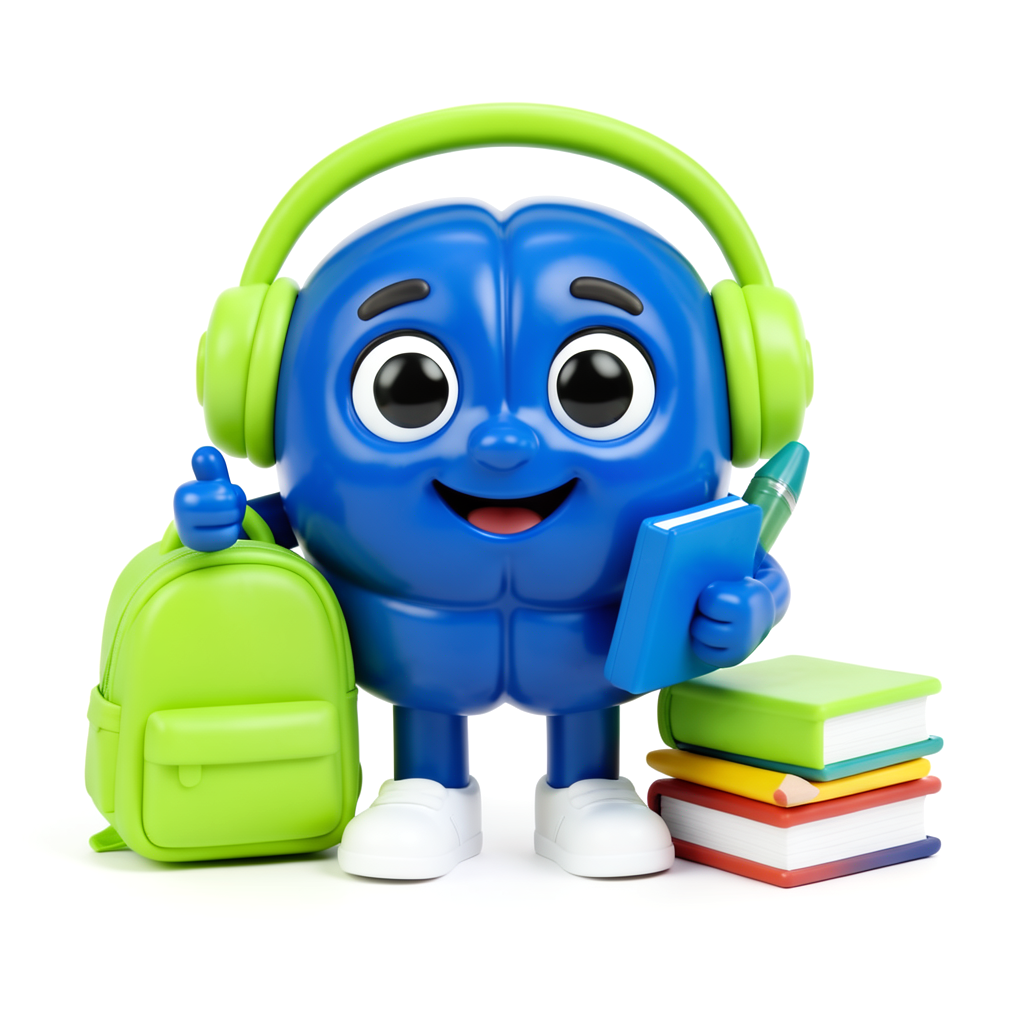
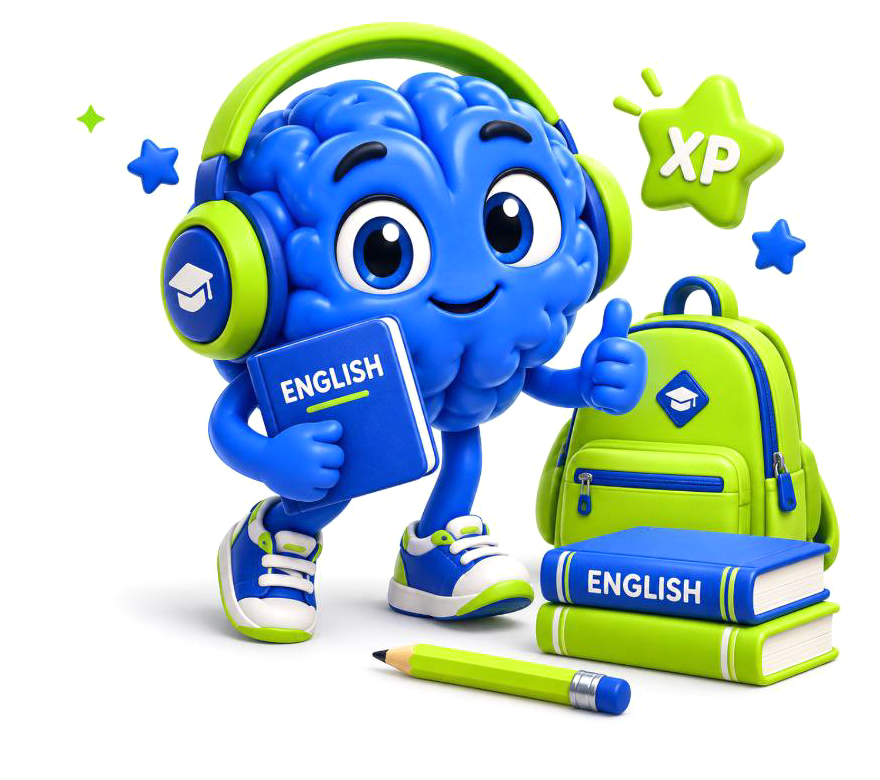
Тест: фирменный персонаж 1english вместо сгенерированного
- маскот везде из макета (мозг с наушниками, ENGLISH, рюкзак, XP);
  в углу карточки вопроса — кроп головы
- src картинок прописан в разметке, а не только в JS
- убрана толстая лаймовая полоса слева у блока текста

Claude-Session: https://claude.ai/code/session_01QHpr9geVrbiZq4FtRugxFt

diff --git a/templates/injectable_test.html b/templates/injectable_test.html
@@ -83,7 +83,7 @@
   #ev .qtag{display:inline-block;font-size:11.5px;font-weight:800;letter-spacing:1.2px;text-transform:uppercase;
       color:var(--blue2);background:var(--blue-soft);border-radius:999px;padding:5px 12px;margin-bottom:12px}
   #ev .qmas{position:absolute;right:14px;top:10px;width:56px;opacity:.95}
-  #ev .passage{background:#f7f9fd;border-left:5px solid var(--lime);border-radius:14px;padding:14px;
+  #ev .passage{background:#f7f9fd;border-radius:14px;padding:16px;
       font-size:15.5px;line-height:1.6;color:#33445f;font-weight:600;margin-bottom:14px}
   #ev .qtext{font-size:21px;font-weight:800;line-height:1.32;letter-spacing:-.4px;padding-right:52px}
   #ev .qhint{font-size:14px;color:var(--muted);font-weight:600;margin-top:6px}
@@ -173,12 +173,12 @@
       <div class="herotext">
         <div class="kick" id="kickText">Жаңа оқу жылы — жаңа мүмкіндік</div>
         <h1>Ағылшыннан <span class="uline">жаңа деңгей</span>!</h1>
-        <div class="heroart mob"><img id="heroImg2" alt=""></div>
+        <div class="heroart mob"><img id="heroImg2" src="https://nazaralmaty.github.io/youngfuture-games/assets/hero_mascot.png" alt=""></div>
         <p class="lead">15 сұрақ, 7 минут. Грамматика, сөздік қор және оқылым — соңында нақты деңгейің мен келесі қадам.</p>
         <button class="btn" id="go-form">Тестті бастау <span class="arr">→</span></button>
         <p class="note">🔒 Нәтиже тек оқу деңгейін талдау үшін қолданылады.</p>
       </div>
-      <div class="heroart"><img id="heroImg" alt=""></div>
+      <div class="heroart"><img id="heroImg" src="https://nazaralmaty.github.io/youngfuture-games/assets/hero_mascot.png" alt=""></div>
     </div>
 
     <div class="feats">
@@ -191,7 +191,7 @@
   <!-- 2. FORM -->
   <section class="screen" id="ev-form">
     <div class="card">
-      <div class="pic"><img id="formImg" alt=""></div>
+      <div class="pic"><img id="formImg" src="https://nazaralmaty.github.io/youngfuture-games/assets/think_mascot.png" alt=""></div>
       <h2>Өзің туралы</h2>
       <p class="sub">Нәтижені саған жіберу үшін ғана керек.</p>
       <div class="field" id="f-name">
@@ -219,7 +219,7 @@
   <!-- 3b. РАУНД АРАСЫ -->
   <section class="screen" id="ev-round">
     <div class="card">
-      <div class="pic"><img id="roundImg" alt=""></div>
+      <div class="pic"><img id="roundImg" src="https://nazaralmaty.github.io/youngfuture-games/assets/think_mascot.png" alt=""></div>
       <div class="roundn" id="roundN">2 / 3</div>
       <h2 id="roundT">Келесі раунд</h2>
       <p class="sub" id="roundP"></p>
@@ -229,7 +229,7 @@
 
   <!-- 4. FINISH -->
   <section class="screen fin" id="ev-finish">
-    <div class="finpic"><img id="finImg" alt=""></div>
+    <div class="finpic"><img id="finImg" src="https://nazaralmaty.github.io/youngfuture-games/assets/finish_mascot.png" alt=""></div>
     <div class="lvl">
       <small>Сенің деңгейің</small>
       <b id="f-level">—</b>

diff --git a/templates/test.html b/templates/test.html
@@ -83,7 +83,7 @@
   #ev .qtag{display:inline-block;font-size:11.5px;font-weight:800;letter-spacing:1.2px;text-transform:uppercase;
       color:var(--blue2);background:var(--blue-soft);border-radius:999px;padding:5px 12px;margin-bottom:12px}
   #ev .qmas{position:absolute;right:14px;top:10px;width:56px;opacity:.95}
-  #ev .passage{background:#f7f9fd;border-left:5px solid var(--lime);border-radius:14px;padding:14px;
+  #ev .passage{background:#f7f9fd;border-radius:14px;padding:16px;
       font-size:15.5px;line-height:1.6;color:#33445f;font-weight:600;margin-bottom:14px}
   #ev .qtext{font-size:21px;font-weight:800;line-height:1.32;letter-spacing:-.4px;padding-right:52px}
   #ev .qhint{font-size:14px;color:var(--muted);font-weight:600;margin-top:6px}
@@ -173,12 +173,12 @@
       <div class="herotext">
         <div class="kick" id="kickText">Жаңа оқу жылы — жаңа мүмкіндік</div>
         <h1>Ағылшыннан <span class="uline">жаңа деңгей</span>!</h1>
-        <div class="heroart mob"><img id="heroImg2" alt=""></div>
+        <div class="heroart mob"><img id="heroImg2" src="https://nazaralmaty.github.io/youngfuture-games/assets/hero_mascot.png" alt=""></div>
         <p class="lead">15 сұрақ, 7 минут. Грамматика, сөздік қор және оқылым — соңында нақты деңгейің мен келесі қадам.</p>
         <button class="btn" id="go-form">Тестті бастау <span class="arr">→</span></button>
         <p class="note">🔒 Нәтиже тек оқу деңгейін талдау үшін қолданылады.</p>
       </div>
-      <div class="heroart"><img id="heroImg" alt=""></div>
+      <div class="heroart"><img id="heroImg" src="https://nazaralmaty.github.io/youngfuture-games/assets/hero_mascot.png" alt=""></div>
     </div>
 
     <div class="feats">
@@ -191,7 +191,7 @@
   <!-- 2. FORM -->
   <section class="screen" id="ev-form">
     <div class="card">
-      <div class="pic"><img id="formImg" alt=""></div>
+      <div class="pic"><img id="formImg" src="https://nazaralmaty.github.io/youngfuture-games/assets/think_mascot.png" alt=""></div>
       <h2>Өзің туралы</h2>
       <p class="sub">Нәтижені саған жіберу үшін ғана керек.</p>
       <div class="field" id="f-name">
@@ -219,7 +219,7 @@
   <!-- 3b. РАУНД АРАСЫ -->
   <section class="screen" id="ev-round">
     <div class="card">
-      <div class="pic"><img id="roundImg" alt=""></div>
+      <div class="pic"><img id="roundImg" src="https://nazaralmaty.github.io/youngfuture-games/assets/think_mascot.png" alt=""></div>
       <div class="roundn" id="roundN">2 / 3</div>
       <h2 id="roundT">Келесі раунд</h2>
       <p class="sub" id="roundP"></p>
@@ -229,7 +229,7 @@
 
   <!-- 4. FINISH -->
   <section class="screen fin" id="ev-finish">
-    <div class="finpic"><img id="finImg" alt=""></div>
+    <div class="finpic"><img id="finImg" src="https://nazaralmaty.github.io/youngfuture-games/assets/finish_mascot.png" alt=""></div>
     <div class="lvl">
       <small>Сенің деңгейің</small>
       <b id="f-level">—</b>
